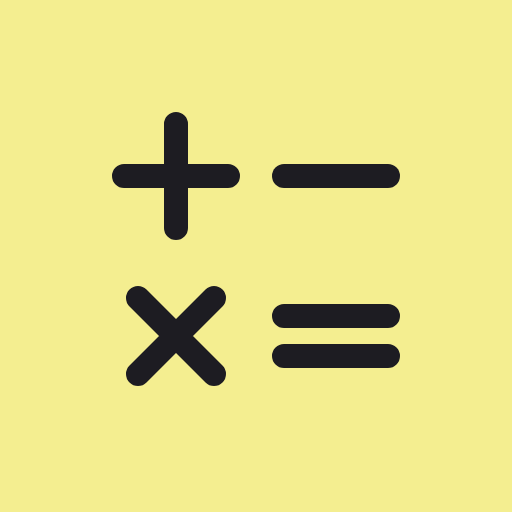
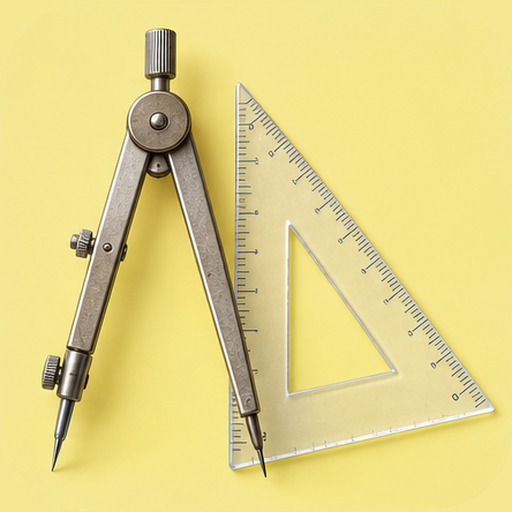
Ikona aplikacji z ChatGPT: dojrzała, bez maskotki

diff --git a/sw.js b/sw.js
@@ -3,7 +3,7 @@
 // otwieranie nie czeka na sieć, poprawiony kod działa od następnego otwarcia (po podbiciu CACHE — od razu po instalacji).
 // Zestawy i dźwięki jak dotąd: najpierw z sieci (nowe zadania od razu), bez sieci z pamięci; przy bardzo wolnej sieci
 // po 3 s bierzemy kopię z pamięci, a odpowiedź z sieci i tak trafia do pamięci na następny raz.
-const CACHE = 'matmoza-v12';
+const CACHE = 'matmoza-v13';
 const SHELL = ['./', 'styles.css', 'manifest.webmanifest', 'js/app.js', 'js/dom.js', 'js/gra.js', 'js/generatory.js',
   'js/liczby.js', 'js/wyrazenie.js', 'js/sprawdz.js', 'js/store.js', 'js/konto.js', 'js/dzwieki.js', 'zestawy/indeks.json',
   'ikony/ikona-180.png', 'ikony/ikona-192.png', 'ikony/ikona-512.png', 'fonts/Jost.ttf', 'fonts/LibreBaskerville.ttf',
